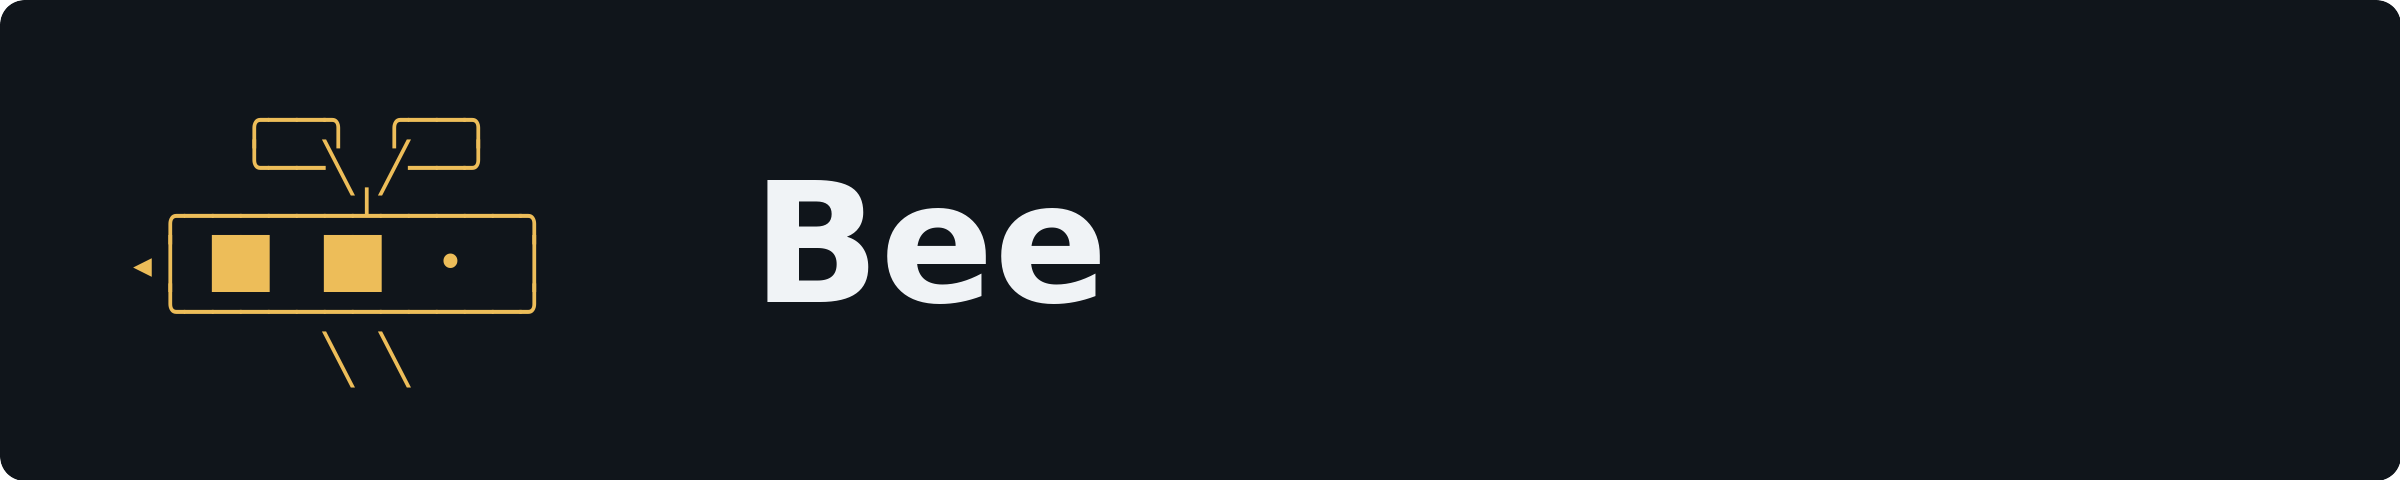
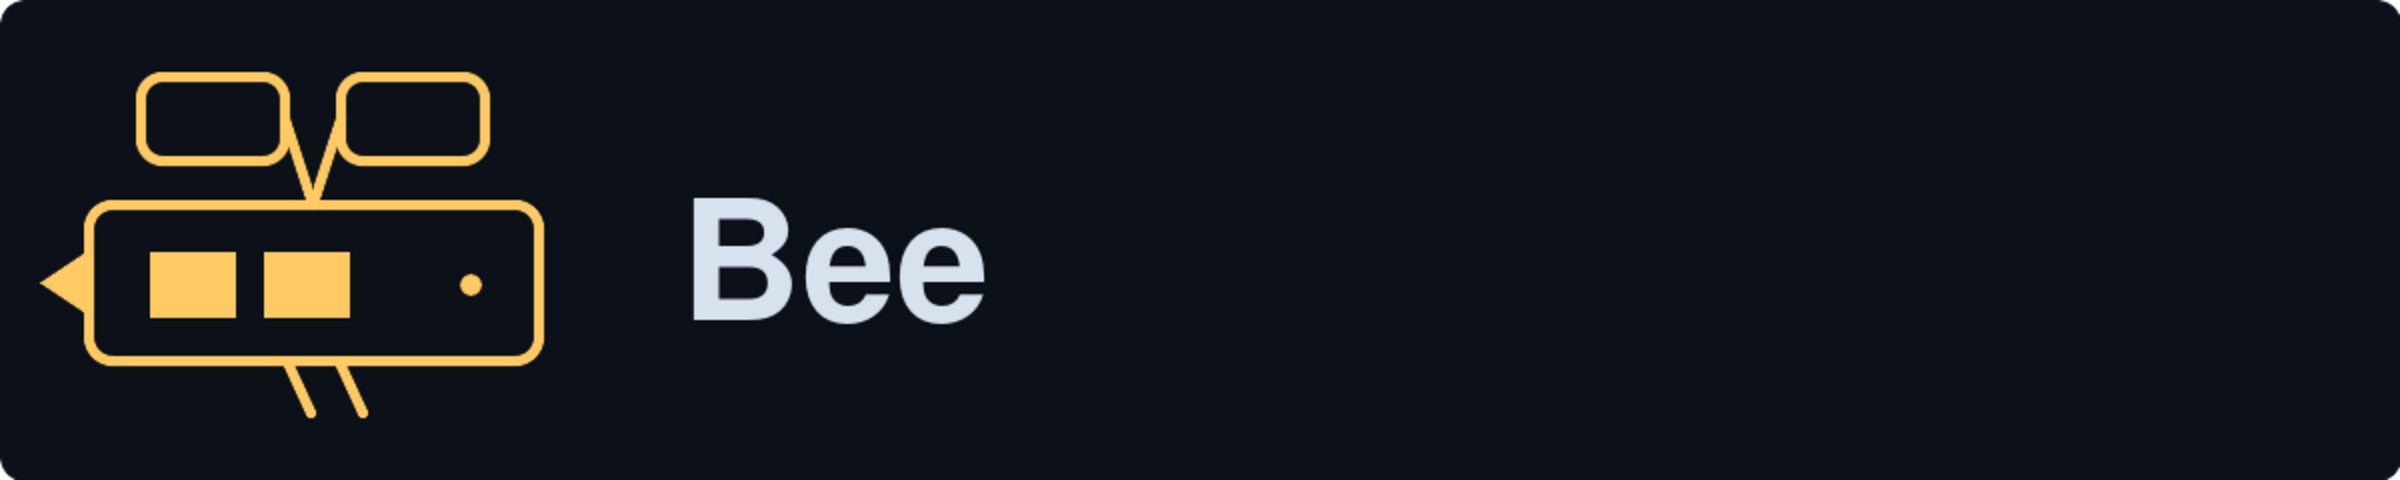
Polish repository presentation

Changed region(s): [[0.0, 0.125, 0.25, 0.875], [0.2812, 0.375, 0.4688, 0.6875]]

diff --git a/README.md b/README.md
@@ -1,21 +1,26 @@
-![Bee](docs/assets/banner.svg)
+<p align="center">
+  <img src="docs/assets/banner.svg" alt="Bee terminal workspace logo with the terminal bee mark and Bee wordmark" width="1200">
+</p>
 
-[![Bee checks](https://github.com/wippyai/bee/actions/workflows/native.yml/badge.svg)](https://github.com/wippyai/bee/actions/workflows/native.yml)
-[![License: MIT](https://img.shields.io/badge/license-MIT-edbd59)](LICENSE)
+<p align="center"><strong>A persistent terminal workspace for people, agents, and the tools they build together.</strong></p>
 
-Bee is a terminal desktop for coding. Run shells and command-line agents in
-separate windows, switch between them, and keep your workspace preferences.
-Built on [Wippy](https://github.com/wippyai/runtime).
+<p align="center">
+  <a href="docs/README.md">Documentation</a> ·
+  <a href="docs/FOUNDATION_STATUS.md">Current status</a> ·
+  <a href="CONTRIBUTING.md">Contributing</a> ·
+  <a href="LICENSE">MIT license</a> ·
+  <a href="https://github.com/wippyai/runtime">Wippy</a>
+</p>
 
-The executable includes the desktop and its default apps. First launch works
-offline; Hub access is optional for later application updates.
+Bee is a terminal desktop for coding. It keeps shells, managed coding agents,
+standalone applications, approvals, and durable threads in one workspace. The
+executable includes the desktop and its default apps, and a fresh local launch
+works offline. Hub access is optional for inspecting and installing components.
 
-[Install](#install) · [Run](#run) · [Development](#development) · [Documentation](docs/README.md) · [Contributing](CONTRIBUTING.md)
+![Bee terminal desktop showing Settings, Terminal, and Process Manager](docs/assets/desktop.gif)
 
-![Bee running Settings, Terminal and Process Manager](docs/assets/desktop.gif)
-
-*A recording of the current desktop: change a theme, run a command, maximize the
-terminal, reload the presenter, and inspect running processes.*
+*A real standalone Bee session: change the theme, run a command, maximize and
+reload the presenter, then inspect running processes.*
 
 ## Run
 
@@ -27,21 +32,18 @@ bee claude
 bee codex
 bee agy
 bee grok
+bee muse
 ```
 
-Agent commands open the corresponding managed profile fullscreen through the
-same admission path as the Agent picker. They must already be available under
-the host launch policy. Raw trailing arguments are refused; configure reviewed
-options in a saved profile, or run an arbitrary command inside Native Terminal.
-Managed profiles provide scoped MCP and driver-specific thread hooks; see
-[saved profiles](docs/handoffs/SAVED_AGENT_PROFILES.md) for setup and verified
-harness support. Managed Docker launch remains unfinished.
+The named commands open a managed profile fullscreen through the same admission
+path as the Agent picker. The harness must be installed and admitted by the host.
+Saved profiles select reviewed options, instructions, MCP scope, hooks, placement,
+and recovery behavior; see [saved profiles](docs/handoffs/SAVED_AGENT_PROFILES.md).
+Managed Docker launch remains unfinished.
 
-Run `bee observe` in another terminal to view the running Bee read-only. It shares
-the retained desktop; typing cannot control its apps. Ctrl+Q or Ctrl+] detaches
-that display. If no Bee is running, observation refuses without starting one.
-
-To choose an existing local desktop explicitly, copy its identities from the list:
+Run `bee observe` in another terminal for a read-only view of the retained local
+desktop. Typing cannot control its apps. Ctrl+Q or Ctrl+] detaches that display,
+and observation refuses when no Bee is running.
 
 ```sh
 bee desktops
@@ -49,101 +51,89 @@ bee attach WORKSPACE DISPLAY
 bee observe WORKSPACE DISPLAY
 ```
 
-An occupied desktop refuses control; observation remains an explicit choice.
-These commands use the Bee selected by `--state-dir`. Live workspace switching
-and public remote enrollment are still in development.
+These commands address the Bee selected by `--state-dir`. An occupied desktop
+refuses another controller; observation remains explicit. Ctrl+Q detaches a
+controller while admitted applications keep running.
 
-Named commands attach to the selected owner and launch through its admitted
-catalog. Ctrl+Q detaches while retaining applications. An already-running owner
-keeps its loaded code after a binary update; new command routing requires an owner
-started from the current build. See [current build status](docs/handoffs/GLOBAL_BUILD.md).
+## What works
 
-## Install
+| Surface | Current behavior |
+|---|---|
+| **Desktop** | Independent client layouts, retained app execution, controller/observer attachment, F12 presenter replacement, themes, resize, mouse and keyboard input |
+| **Terminal** | Native interactive programs with the OS user's authority |
+| **Agents** | Claude, Codex, Agy, Grok and Muse profiles with scoped MCP, driver hooks, durable threads and qualified recovery |
+| **Governed apps** | Agent authoring in durable overlays, immutable freeze, review, approval, destination apply, compatible replacement and restart restoration |
+| **Components** | Read-only Hub inspection for agents; host-authorized local plan/apply, requirements, migrations and durable receipts in Modules |
+| **Coordination** | Durable Threads and Timeline, explicit subscriptions, Approvals, Inbox projection and scoped agent-to-agent launch |
+| **Operations** | Settings, Process Manager, Modules, Overlays, Approvals, Timeline, Hive Manager, About and the runnable UI Guide |
 
-**Alpha.** Native builds target Linux and macOS on amd64 and arm64.
-There is no published release download yet. Build from a checkout with Git,
-Go 1.27.0 and a C compiler installed:
+Press **F1** for Start, **Alt+Tab** to switch apps, **F11** to maximize, and
+**Ctrl+Q** to detach. Drag windows by their titles and resize from their corners.
+**F12** replaces the presenter while applications keep running. Preferences and
+supported application checkpoints survive restart; a dead native terminal does
+not become a portable checkpoint.
+
+## Current scope
+
+Bee uses the normal Wippy substrate. An admitted component may define services,
+functions, owned databases and migrations, drivers, traits, agents, and an
+optional UI. Bee governs the exact definitions, destination permissions and
+resources, lifecycle, and receipts; component services own their protocol and
+domain state.
+
+Local desktop/client attachment, observation, Hub installation, governed app
+overlays, managed agents, and policy-routed Hive operations are implemented.
+Public Hive enrollment and discovery, remote workspace composition, destination
+Hub transfer/install, and managed headless/Docker launch remain unfinished. The
+current Hive Manager shows admitted catalog state; it does not imply general
+remote control.
+
+## Install from source
+
+**Alpha.** Native builds target Linux and macOS on amd64 and arm64. There is no
+published release download yet. Build from a checkout with Git, Go 1.27.0 and a
+C compiler:
 
 ```sh
 make setup
 make standalone
-```
-
-The repositories are private during alpha preparation; Git credentials must have
-read access to Bee and Builder. See the [build prerequisites](docs/NATIVE_DISTRIBUTION.md#build-and-check).
-Install the resulting executable onto PATH:
-
-```sh
 mkdir -p "$HOME/.local/bin"
 install -m755 dist/bee "$HOME/.local/bin/bee"
 export PATH="$HOME/.local/bin:$PATH"
 ```
 
-Keep `~/.local/bin` on PATH in your shell configuration. Source-development
-instructions are in the
-[development guide](docs/DEVELOPMENT.md).
-
-Once the first alpha is [published](https://github.com/wippyai/bee/releases),
-install it with an explicit version:
-
-```sh
-curl -fsSL https://github.com/wippyai/bee/releases/download/v0.1.0-alpha.1/install.sh | sh -s -- --version 0.1.0-alpha.1
-```
-
-The installer selects Linux or macOS on amd64 or arm64, verifies the archive's
-SHA-256 checksum, and installs to `~/.local/bin` without sudo. To inspect it first
-or choose a destination:
-
-```sh
-curl -fLO https://github.com/wippyai/bee/releases/download/v0.1.0-alpha.1/install.sh
-sh install.sh --version 0.1.0-alpha.1 --dir "$HOME/.local/bin"
-```
-
-Replace the version with the release you want. The installer's default selects
-the latest stable release; alpha releases need `--version`. Installing a new binary preserves
-Bee's workspace data. Archive checksums detect download corruption; they are
-served by the same GitHub release as the binary.
-
-## Inside Bee
-
-- **Terminal** — an interactive shell, or an installed command-line program.
-- **Settings** — themes, backgrounds, tab appearance and loaded build details.
-- **Process Manager** — live process and service metrics.
-- **Approvals** — requests from agents that wait on you, decided once and recorded.
-- **Timeline** — a thread's records in order, as its owner committed them.
-- **Hive Manager** — the Bees you can see, their status and their desktops.
-
-Press **F1** for the menu, **Alt+Tab** to switch apps, **F11** to maximize, and
-**Ctrl+Q** to quit. Drag windows by their titles and resize from their corners.
-**F12** reloads the presenter while applications keep running.
-
-Preferences and supported app checkpoints survive restart. Terminal processes
-do not survive quitting Bee. Native programs run with your OS user's permissions.
+The repositories are private during alpha preparation, so Git credentials need
+read access to Bee and Builder. Keep `~/.local/bin` on PATH in your shell
+configuration. The build and the tested release installer preserve Bee's
+workspace state; see [native distribution](docs/NATIVE_DISTRIBUTION.md) and
+[releasing](docs/RELEASING.md).
 
 ## Development
 
-Start with the [development guide](docs/DEVELOPMENT.md). Run `make check` for typed
-Lua, permissions, persistence and real terminal acceptance tests.
+Start with the [agent guide](docs/AGENT_GUIDE.md) and
+[development conventions](docs/DEVELOPMENT.md). Production loads only `src/`;
+tests and the historical POC are not runtime dependencies. Run `make check` for
+typed Lua, permissions, persistence, packaging, and real terminal acceptance.
 
 | Code | Purpose |
 |---|---|
-| [src/core](src/core) | Workspace, application lifecycle, desktop and storage |
-| [src/ui](src/ui) | Shared UI and application helpers |
-| [src/apps](src/apps) | Bundled applications, each in its own process |
-| [src/threads](src/threads) | Local event journal and replay |
-| [tests](tests) | Model and runtime acceptance checks |
+| [src/core](src/core) | Workspace host, applications, desktop, client and storage |
+| [src/ui](src/ui) | Shared appearance and application helpers |
+| [src/apps](src/apps) | Bundled standalone application processes |
+| [src/hub](src/hub) | Local package planning, apply and receipts |
+| [src/governance](src/governance) | Overlay authoring, review, activation and recovery |
+| [src/hive](src/hive) | Authenticated cross-node operation contracts |
+| [src/threads](src/threads) | Durable records, subscriptions and delivery |
+| [tests](tests) | Model, source/pack and native acceptance |
 
-[What works today](docs/FOUNDATION_STATUS.md) ·
 [Application contracts](docs/APPLICATION_CONTRACTS.md) ·
-[Next steps](docs/FOUNDATION_NEXT.md) ·
-[Documentation](docs/README.md)
-
-Remote workspace composition and in-app self-editing are planned. The demo above
-shows local behavior only.
+[Package boundaries](docs/PACKAGE_BOUNDARIES.md) ·
+[System map](docs/SYSTEM_MAP.md) ·
+[Finish plan](docs/FINISH_PLAN.md)
 
 ## License
 
-Bee-owned code is [MIT](LICENSE). Wippy retains MPL-2.0; dependencies
-retain their own licenses.
+Bee-owned code and artwork are [MIT](LICENSE). Wippy retains MPL-2.0;
+dependencies retain their own licenses.
 
-[Contributing](CONTRIBUTING.md) · [Code of conduct](https://github.com/wippyai/.github/blob/main/.github/CODE_OF_CONDUCT.md) · [Security](SECURITY.md)
+[Code of conduct](https://github.com/wippyai/.github/blob/main/.github/CODE_OF_CONDUCT.md) · [Security](SECURITY.md)

diff --git a/docs/assets/README.md b/docs/assets/README.md
@@ -3,18 +3,19 @@
 `banner.svg` is the banner used by the README; `banner.png` is its 2× raster export.
 `logo.svg` contains the standalone repository mark; `logo.png` is its raster export.
 Both use the character artwork from the application's
-[welcome screen](../../src/core/terminal/chrome.lua), set in DejaVu Sans Mono.
+[welcome screen](../../src/core/terminal/chrome.lua) and the Honey palette from
+the [UI brand book](../UI_BRAND_BOOK.md). Their font lists include generic
+fallbacks so the SVGs remain portable.
 
 `desktop.gif` was captured on 2026-09-07 from the standalone Linux Bee binary
-built with the fullscreen handlers and subsequent workspace-header cleanup. It contains 14
+built with the fullscreen handlers and subsequent workspace-header cleanup. It contains 12
 terminal frames rendered from actual PTY output in a disposable workspace:
 Start, Settings, Ocean theme, native Terminal, a shell command, maximize, F12,
 and Process Manager. Frame holds are edited for readability. The terminal prompt
 was set to `bee $ ` and cleared before recording. No model or generated activity
 is shown. Metrics are the values emitted by that running instance.
 
-The self-edit demonstration is planned in
-[foundation next steps](../FOUNDATION_NEXT.md). Capture it only after the real
-in-app edit, validation and activation path exists.
+The recording shows local desktop behavior only. It does not claim public Hive
+enrollment, remote workspace composition or destination package installation.
 
 Bee-owned artwork is MIT licensed.
